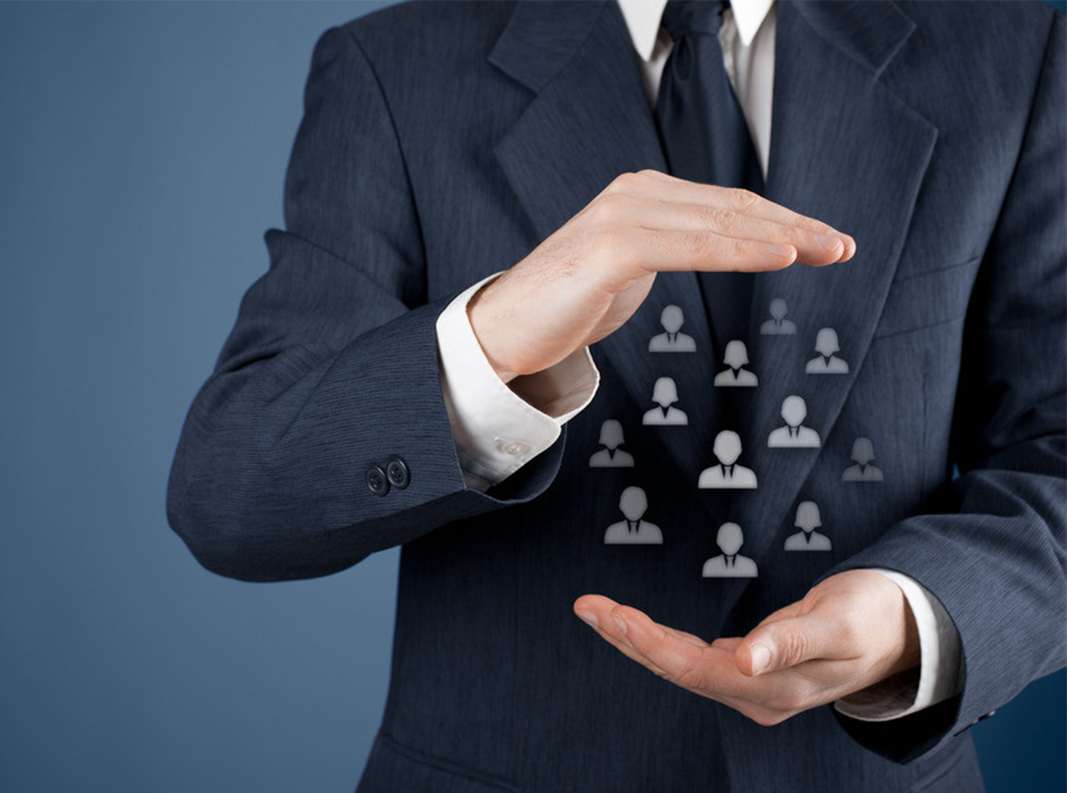
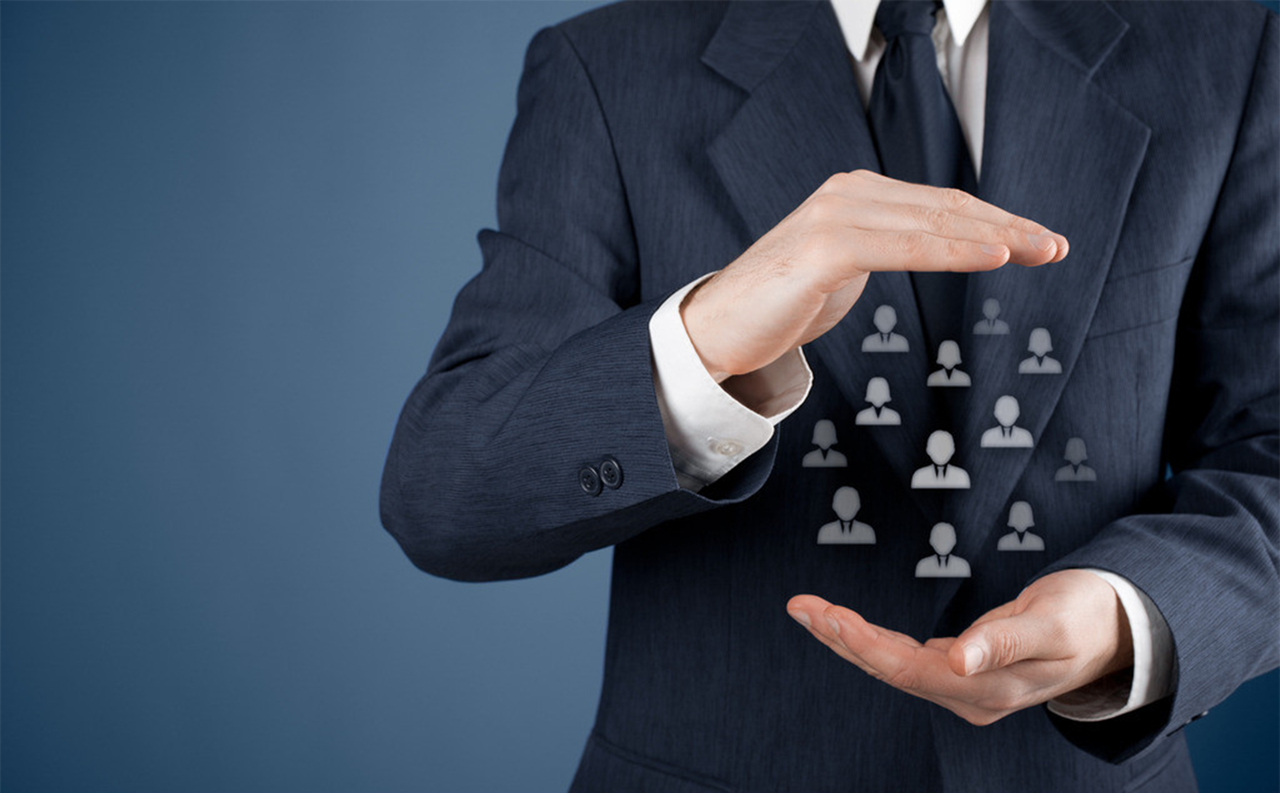
图片背景优化

diff --git a/web/html/Homepage.html b/web/html/Homepage.html
@@ -51,16 +51,15 @@
 </div>
 
 <!-- 第三部分 -->
-<div class="part_two part_three">
-    <img class="bg_img" src="../image/home_bg_3.png">
+<div class="part_two part_three" style="background: url('../image/home_bg_3.png') no-repeat; background-size: 100%">
     <div style="font-size: 40px; line-height: 60px; margin-bottom: 25px;">产品优势</div>
-    提供功能强大、各式各样的视频模板，能让用户轻松制作出理想的视频名片，操作简单，易于上手。<br>
-    微视频制作完成后存储在云端，同时生成一个二维码，方便用户分享到各个社交平台。
+    <div class="pre_detail">提供功能强大、各式各样的视频模板，能让用户轻松制作出理想的视频名片，操作简单，易于上手。<br>
+    微视频制作完成后存储在云端，同时生成一个二维码，方便用户分享到各个社交平台。</div>
 
     <div class="ads_div">
         <div class="each_ad" style="display: inline-block;">
             <img src="../image/advantage_1.png">
-            <div class="ad_detail">利用声音、影像等资讯了 解个人或企业的精神、文化和发展状况，有效提高个人或企业品牌张力与市场拓展力。</div>
+            <div class="ad_detail">利用声音、影像等资讯了解个人或企业的精神、文化和发展状况，有效提高个人或企业品牌张力与市场拓展力。</div>
         </div>
         <div class="each_ad">
             <img src="../image/advantage_2.png">
@@ -100,7 +99,7 @@
 
 <!-- 第五部分 -->
 <div class="part_five">
-    <img class="bg_img" src="../image/home_bg_5.png">
+    <!--<img class="bg_img" src="../image/home_bg_5.png">-->
 
     <div class="code_lbl">生成二维码</div>
     <div class="share_lbl">分享</div>

diff --git a/web/css/homepage.css b/web/css/homepage.css
@@ -1,3 +1,8 @@
+body, html {
+    width: 100%;
+    overflow-x: hidden;
+}
+
 .part_one {
     width: 100%;
     height: auto;
@@ -139,12 +144,12 @@
 
 @media screen and (max-width: 990px) {
     .part_three {
-        padding-top: 20px;
-        padding-bottom: 30px;
+        padding-top: 10px;
+        padding-bottom: 10px;
     }
 
     .ads_div {
-        margin-top: 30px;
+        margin-top: -20px;
     }
 
     .each_ad {
@@ -154,6 +159,10 @@
     .ad_dot {
         display: inherit;
         margin: 10px auto;
+    }
+
+    .pre_detail {
+        display: none;
     }
 }
 
@@ -167,9 +176,11 @@
 
 .part_five {
     width: 100%;
-    height: 450px;
-    position: relative;
     font-weight: 200;
+    background: url('../image/home_bg_5.png') no-repeat;
+    background-size: 100%;
+    padding-top: 8%;
+    padding-bottom: 10%;
 }
 
 .code_lbl {
@@ -179,9 +190,7 @@
     border-bottom: 1px solid #fff;
     color: #fff;
     cursor: pointer;
-    position: relative;
-    top: 25%;
-    left: 8%;
+    margin-left: 8%;
 }
 
 .share_lbl {
@@ -189,15 +198,22 @@
     font-size: 40px;
     color: #fff;
     letter-spacing: 37px;
-    position: relative;
-    top: 35%;
-    left: 8%;
+    margin-left: 8%;
+    margin-top: 2%;
+}
+
+@media screen and (max-width: 400px) {
+    .code_lbl {
+        font-size: 20px;
+    }
+    .share_lbl {
+        font-size: 28px;
+    }
 }
 
 .qq_img {
-    position: relative;
-    top: 43%;
-    left: 8%;
+    margin-left: 8%;
+    margin-top: 2%;
 }
 
 .qq_img img {
@@ -207,3 +223,4 @@
     vertical-align: top;
     margin-right: 8px;
 }
+
